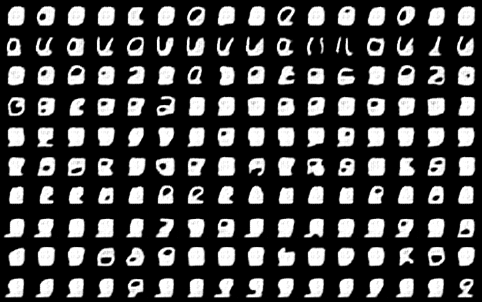
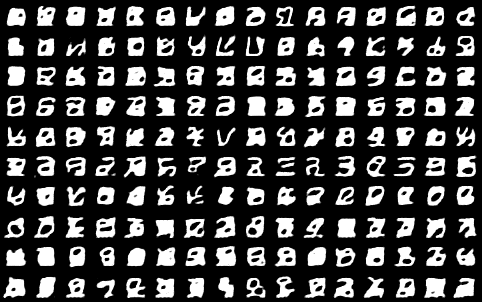
hore: swap schedule

diff --git a/notebooks/3_3_better_training.py b/notebooks/3_3_better_training.py
@@ -21,7 +21,7 @@ from ddpm_from_scratch.engines.mnist import (
 )
 from ddpm_from_scratch.models import UNetWithConditioning, LeNet5
 from ddpm_from_scratch.samplers import DDPM, DDIM
-from ddpm_from_scratch.utils import CosineBetaSchedule
+from ddpm_from_scratch.utils import ScaledLinearBetaSchedule
 
 
 @dataclass(frozen=True)
@@ -45,7 +45,7 @@ class Config:
 DEVICE = "cuda" if torch.cuda.is_available() else "cpu"
 TRAINING_CONFIG: dict[str, Config] = {
     "cuda": Config(
-        num_training_epochs=256,
+        num_training_epochs=96,
         batch_size=128,
         lr=1e-3,
         device=torch.device("cuda"),
@@ -65,8 +65,7 @@ DATA_DIR = Path(__file__).parent.parent / "data"
 
 #%%
 if __name__ == "__main__":
-    # Setup. This is identical to `2_2_mnist.py`,
-    # but we now introduce class-conditioning along with timestep conditioning.
+    # Setup.
     np.random.seed(seed=42)
     torch.manual_seed(42)
     reset_plot_style(xtick_major_pad=4, ytick_major_pad=4, border_width=1.5, label_pad=4)
@@ -77,7 +76,6 @@ if __name__ == "__main__":
     device = config.device
 
     # Define the denoising model.
-    # Now we add a class embedding, and we also increase a bit the size of the embeddings.
     model = UNetWithConditioning(classes=10).to(device)
     print(model)
     print(f"trainable parameters: {sum(p.numel() for p in model.parameters() if p.requires_grad)}")
@@ -87,22 +85,18 @@ if __name__ == "__main__":
     # Create a LR scheduler that reduces by 10x the LR after 40% of the epochs
     scheduler = torch.optim.lr_scheduler.StepLR(optimizer, step_size=int(config.num_training_epochs * 0.4), gamma=0.1)
 
-    # Create the diffusion process. Here, swap the linear schedule with a cosine schedule,
+    # Create the diffusion process. Here, swap the linear schedule with a scaled linear schedule,
     # which introduces noise in a smoother way and should provide better results.
     num_timesteps = 1000
-    betas = CosineBetaSchedule(num_train_timesteps=num_timesteps)
+    betas = ScaledLinearBetaSchedule(num_train_timesteps=num_timesteps)
     ddpm = DDPM(betas, model, device=device, num_timesteps=num_timesteps)
 
-    # Load the MNIST dataset. Split between training and test set.
-    # Pass a seed to the training set dataloader, for reproducibility.
+    # Load the MNIST dataset.
     mnist_train, dataloader_train, mnist_test, dataloader_test = load_mnist(
         DATA_DIR, batch_size=config.batch_size, seed=42
     )
 
     #%% Train the model.
-    # Compared to `2_2_mnist.py`, the training loop has more options.
-    # Beside doing class conditioning with probability `1 - classifier_free_probability`,
-    # we also compute the loss over the validation dataset every `validation_every_n_epochs` epochs.
     losses, val_losses = train_with_class_conditioning(
         dataloader=dataloader_train,
         sampler=ddpm,
@@ -120,9 +114,6 @@ if __name__ == "__main__":
     torch.save(model.state_dict(), DATA_DIR / "3_3_unet.pt")
 
     #%% Plot the training loss and the validation loss.
-    # For the training loss we also plot a rolling average to obtain a smoother curve,
-    # while that's not necessary for the validation loss since each point
-    # is the average over the validation set.
     plt.figure(figsize=(6, 6))
     plt.grid(axis="y", color="0.9", zorder=0, lw=0.4)
     plt.plot(np.arange(len(losses)), losses, lw=0.6, color=PALETTE_OG[0])
@@ -154,8 +145,7 @@ if __name__ == "__main__":
     sampler = DDIM(betas, model, device=device, num_timesteps=num_timesteps)
     x = get_one_element_per_digit(mnist_test).to(device)
     # Add noise to the digits.
-    # x_noisy, _ = sampler.forward_sample(num_timesteps - 1, x)
-    x_noisy = torch.randn(*x.shape, device=x.device)
+    x_noisy, _ = sampler.forward_sample(num_timesteps - 1, x)
     # Do inference, and store results into the GIF, using the callback.
     x_denoised = inference(
         x=x_noisy,
@@ -172,9 +162,6 @@ if __name__ == "__main__":
 
     #%% Measure FID, generating a few digits from scratch
     # and comparing their feature distribution against the real data.
-    # The code is the same as in `2_4_fid.py`, but we wrap it into a function
-    # to make it more reusable.
-    # Results are not great, and they are not significantly improved from the previous model.
     lenet5 = LeNet5(num_classes=10)
     lenet5.load_state_dict(torch.load(DATA_DIR / "2_3_lenet5.pt"))
     lenet5.to(device)
@@ -191,8 +178,6 @@ if __name__ == "__main__":
     print(f"test-ddim FID: {fid_score:.4f}")
 
     #%% Generate a grid of digits.
-    # Some digits have a somewhat recognizable shape, meaning that the class conditioning is adding some information.
-    # But other digits are just white blobs, as if the model was just creating an "average" digit.
     grid = generate_digits(
         sampler,
         conditioning=True,
@@ -204,8 +189,6 @@ if __name__ == "__main__":
     plt.close()
 
     #%% Plot a heatmap with the class embedings learnt by the model.
-    # There's no obvious pattern, although some class embeddings (like 1 and 7) present
-    # a weak negative correlation, since the digits look similar to each other.
     class_embeddings = model.class_embedding.weight.detach().cpu().numpy()
     sns.heatmap(class_embeddings)
     save_plot(PLOT_DIR, "3_3_class_embeddings.png", create_date_dir=False)

diff --git a/notebooks/_3_4_inference_again.py b/notebooks/_3_4_inference_again.py
@@ -28,7 +28,7 @@ if __name__ == "__main__":
 
     # Define the denoising model.
     # model = UNetConditioned(num_classes=10, hidden_channels=24).to(device)
-    model = UNetWithTimestep().to(device)
+    model = UNetWithConditioning(10).to(device)
 
     # Create the diffusion process.
     num_timesteps = 50
@@ -37,7 +37,7 @@ if __name__ == "__main__":
     mnist_train, dataloader_train, mnist_test, dataloader_test = load_mnist(DATA_DIR, batch_size=8)
 
     # Load the trained model
-    model.load_state_dict(torch.load(DATA_DIR / "2_2_unet.pt"))
+    model.load_state_dict(torch.load(DATA_DIR / "3_3_unet.pt"))
     model = model.half()
 
     #%% Do inference, denoising one sample digit for each category (0, 1, 2, ...).
@@ -55,7 +55,7 @@ if __name__ == "__main__":
     ddim = DDIMScheduler(
         beta_start=0.00085,
         beta_end=0.012,
-        beta_schedule="linear",
+        beta_schedule="squaredcos_cap_v2",
         num_train_timesteps=1000,
         clip_sample=False,
         set_alpha_to_one=False,
@@ -77,10 +77,10 @@ if __name__ == "__main__":
     for t in tqdm(ddim.timesteps, desc="inference"):
         # Inference, predict the next step given the current one
         with torch.no_grad():
-            noise_pred = model(t.unsqueeze(0), x_t)
-            # noise_pred_cond = model(t.unsqueeze(0), x_t, torch.arange(0, 10, device=device))
-            # noise_pred_uncond = model(t.unsqueeze(0), x_t)
-            # noise_pred = noise_pred_uncond + scale * (noise_pred_cond - noise_pred_uncond)
+            # noise_pred = model(t.unsqueeze(0), x_t)
+            noise_pred_cond = model(t.unsqueeze(0), x_t, torch.arange(0, 10, device=device))
+            noise_pred_uncond = model(t.unsqueeze(0), x_t)
+            noise_pred = noise_pred_uncond + scale * (noise_pred_cond - noise_pred_uncond)
             output = ddim.step(
                 noise_pred,
                 t,

diff --git a/notebooks/3_1_mnist_with_class_conditioning.py b/notebooks/3_1_mnist_with_class_conditioning.py
@@ -150,8 +150,7 @@ if __name__ == "__main__":
     sampler = DDIM(betas, model, device=device, num_timesteps=num_timesteps)
     x = get_one_element_per_digit(mnist_test).to(device)
     # Add noise to the digits.
-    # x_noisy, _ = sampler.forward_sample(num_timesteps - 1, x)
-    x_noisy = torch.randn(*x.shape, device=x.device)
+    x_noisy, _ = sampler.forward_sample(num_timesteps - 1, x)
     # Do inference, and store results into the GIF, using the callback.
     x_denoised = inference(
         x=x_noisy,

diff --git a/notebooks/3_2_classifier_free_guidance.py b/notebooks/3_2_classifier_free_guidance.py
@@ -35,7 +35,7 @@ if __name__ == "__main__":
 
     # Load the model.
     model = UNetWithConditioning(classes=10).to(device)
-    model.load_state_dict(torch.load(DATA_DIR / "3_1_unet.pt"))
+    model.load_state_dict(torch.load(DATA_DIR / "3_3_unet.pt"))
 
     # Create the diffusion process.
     num_timesteps = 1000
